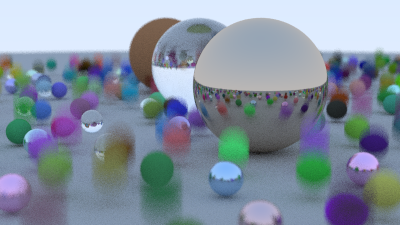
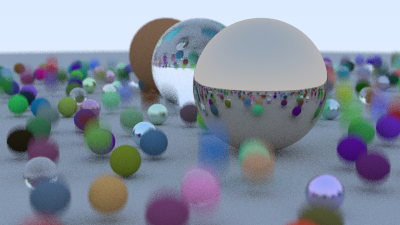
Main run with BVH

diff --git a/src/main.rs b/src/main.rs
@@ -8,6 +8,7 @@ use crate::sphere::Sphere;
 use crate::vec3::Vec3;
 use rand::Rng;
 use rayon::prelude::*;
+use crate::bvh::BVHNode;
 
 mod aabb;
 mod bvh;
@@ -37,7 +38,7 @@ fn ray_color<T: Hit>(r: &Ray, world: &T, depth: i32) -> Color {
     (1.0 - t) * Color::new(1.0, 1.0, 1.0) + t * Color::new(0.5, 0.7, 1.0)
 }
 
-fn random_scene() -> HitList {
+fn random_scene() -> impl Hit {
     let mut world = HitList::new();
 
     let ground_material = Lambertian::new(Color::new(0.5, 0.5, 0.5));
@@ -98,7 +99,7 @@ fn random_scene() -> HitList {
     let material3 = Metal::new(Color::new(0.7, 0.6, 0.5), 0.0);
     world.push(Sphere::new(Point::new(4.0, 1.0, 0.0), 1.0, material3));
 
-    world
+    BVHNode::new(&world, 0.0, 1.0)
 }
 
 fn main() {

diff --git a/src/bvh.rs b/src/bvh.rs
@@ -53,8 +53,8 @@ impl BVHNode {
                     left = objects[start].clone();
                     right = objects[start + 1].clone();
                 } else {
-                    left = objects[start].clone();
-                    right = objects[start + 1].clone();
+                    left = objects[start + 1].clone();
+                    right = objects[start].clone();
                 }
             }
             _ => {
